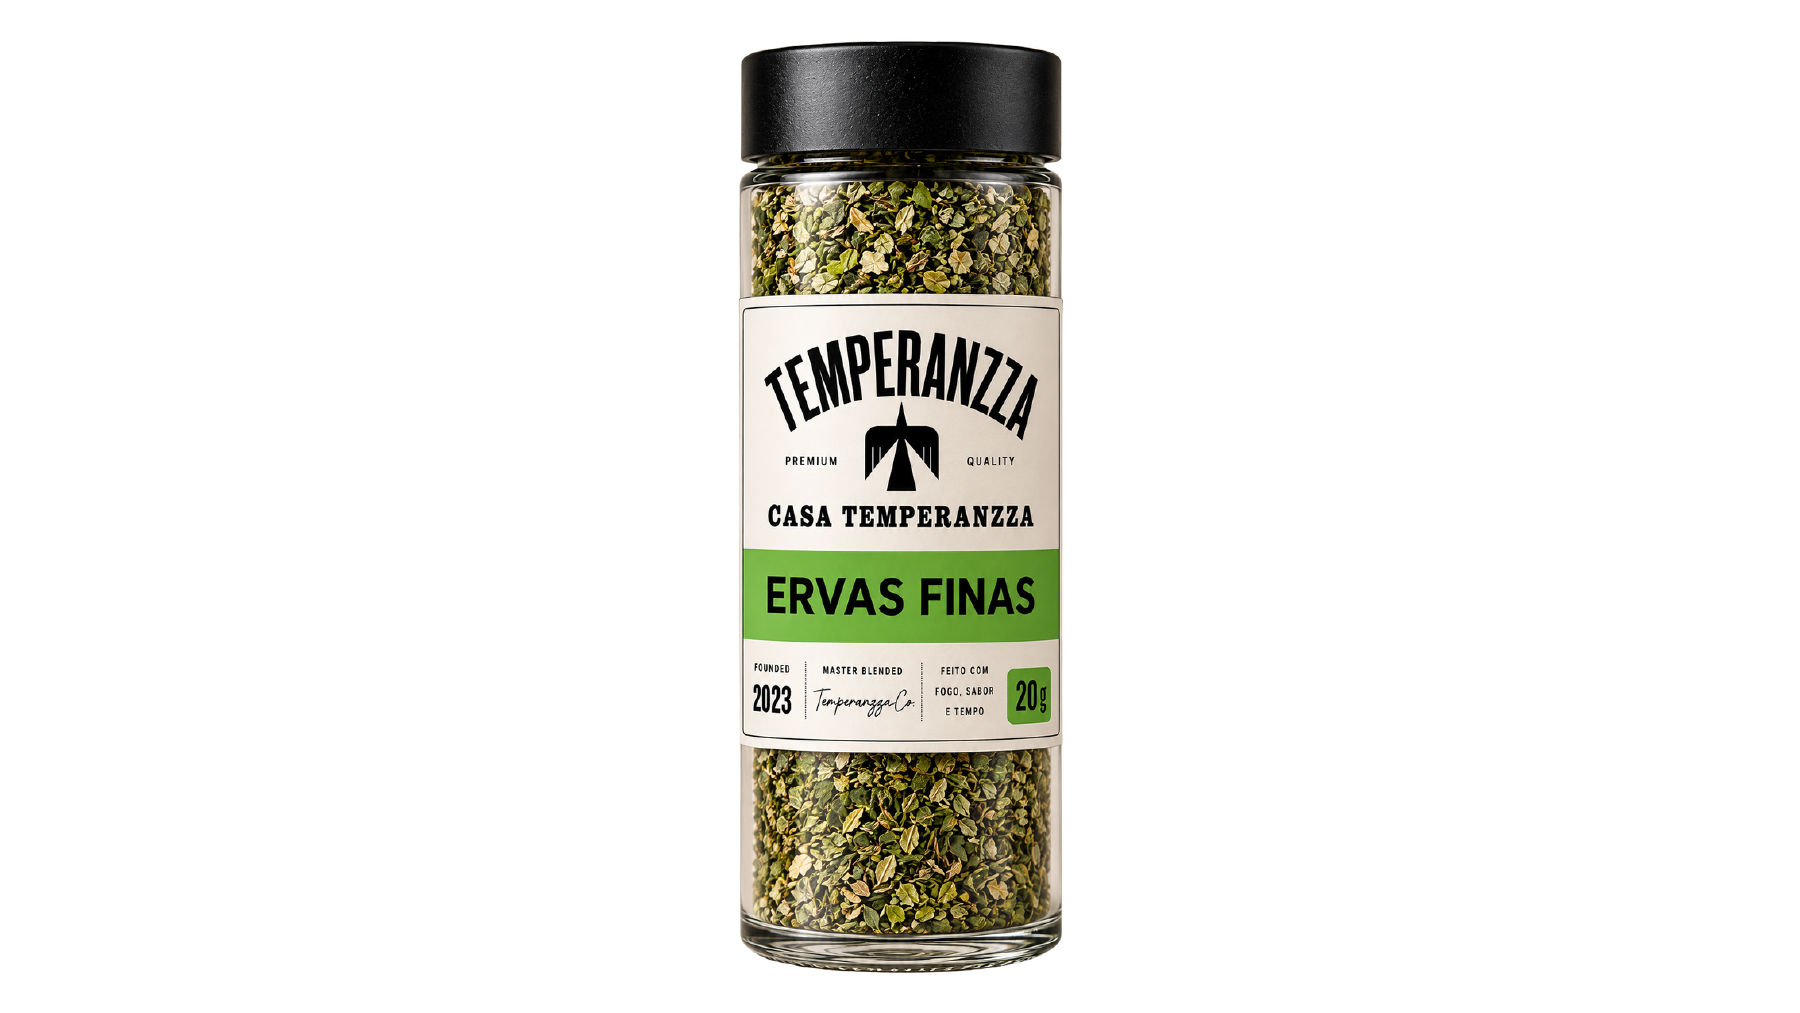
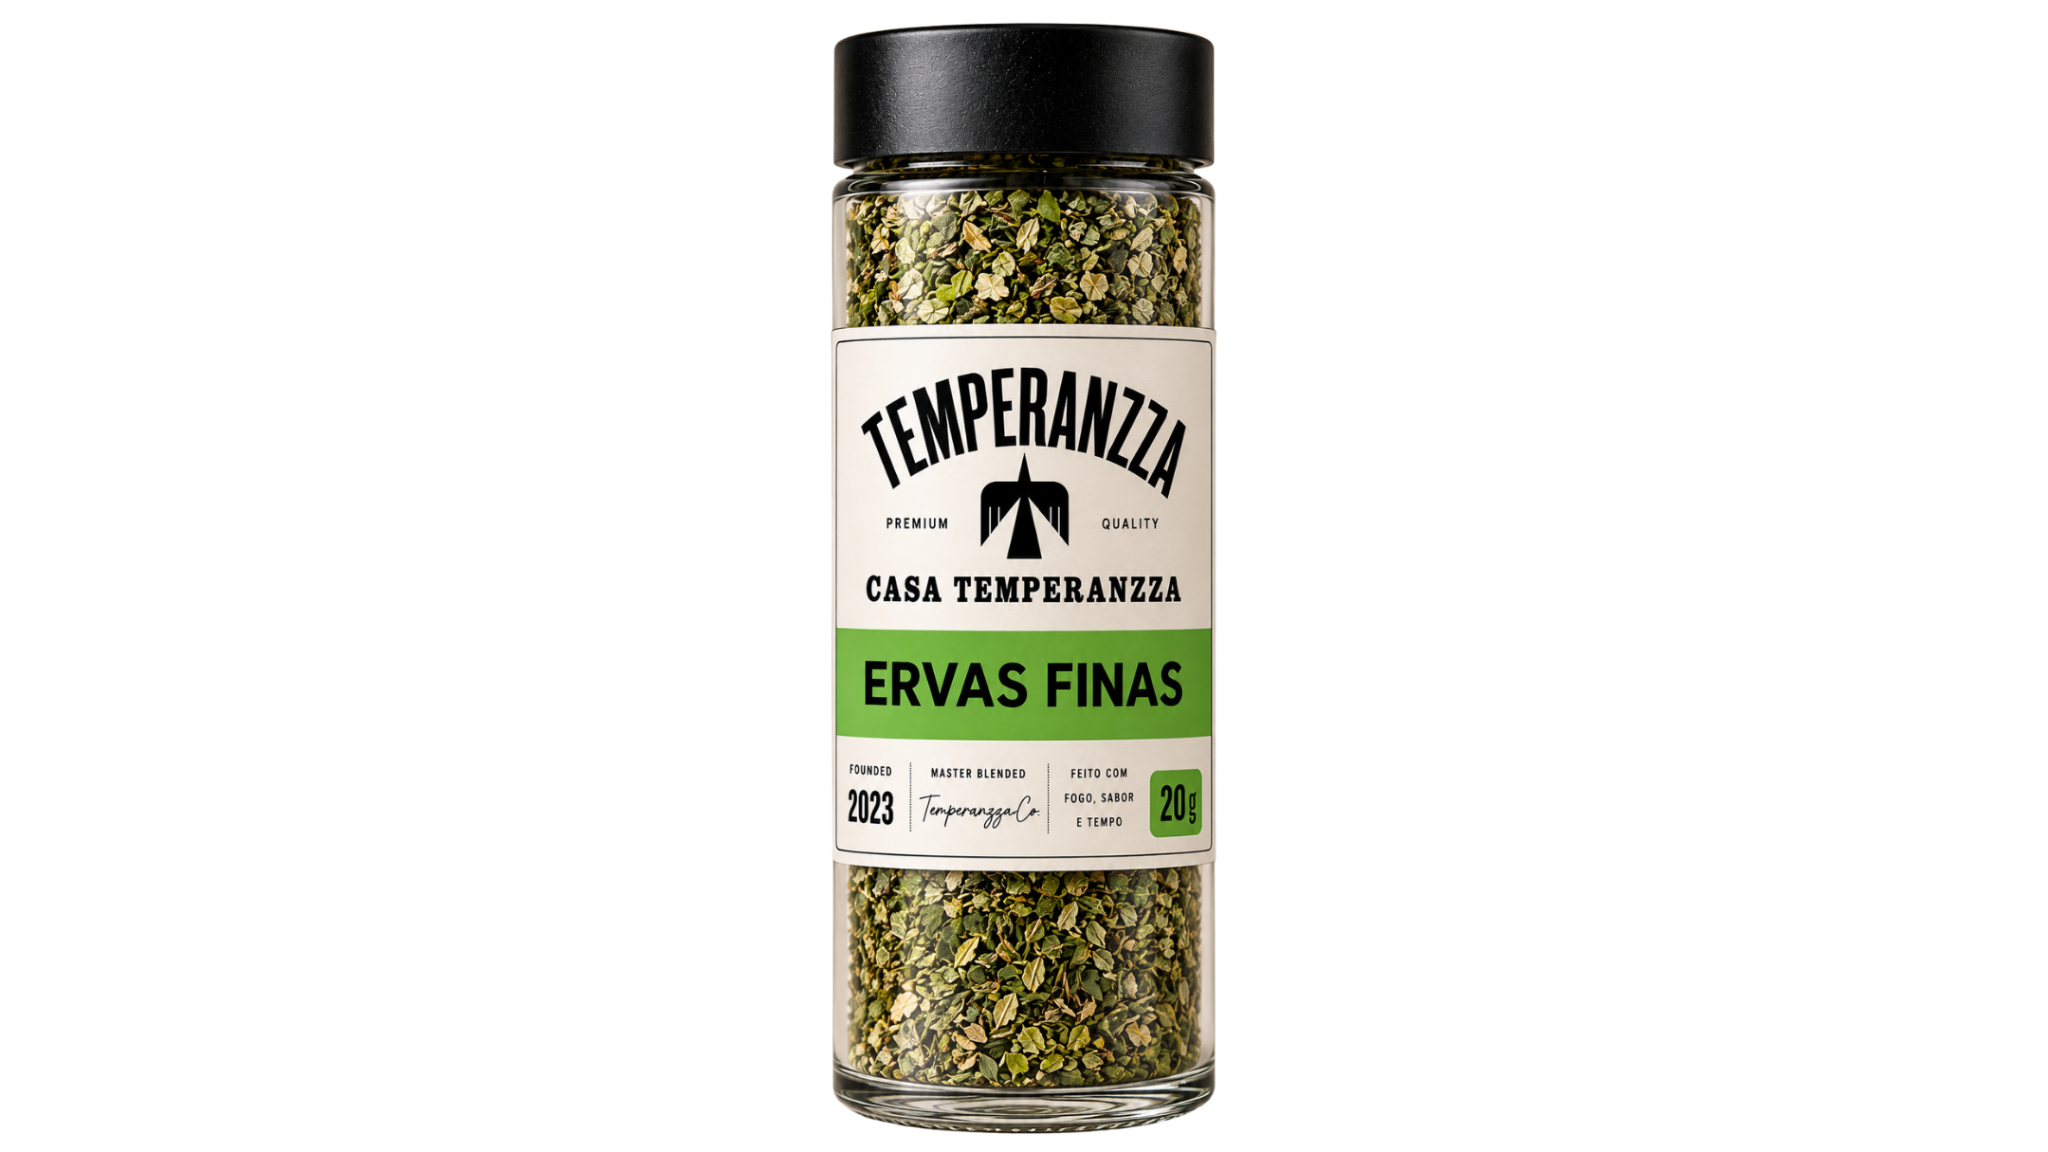
feat: lock official transparent rebrand pot masters

Changed region(s): [[0.4044, 0.0, 0.5911, 1.0]]

diff --git a/src/lib/productImages.ts b/src/lib/productImages.ts
@@ -16,6 +16,7 @@ import rebrandCurcuma from "@/assets/rebrand-products/curcuma.png";
 import rebrandEdu from "@/assets/rebrand-products/tempero-do-edu.png";
 import rebrandErvasFinas from "@/assets/rebrand-products/ervas-finas.png";
 import rebrandLemonPepper from "@/assets/rebrand-products/lemon-pepper.png";
+import rebrandTemperoMineiro from "@/assets/rebrand-products/tempero-mineiro.png";
 import rebrandPapricaDefumada from "@/assets/rebrand-products/paprica-defumada.png";
 import rebrandPapricaDoce from "@/assets/rebrand-products/paprica-doce.png";
 import rebrandPapricaPicante from "@/assets/rebrand-products/paprica-picante.png";
@@ -33,6 +34,7 @@ const REBRAND_IMAGE_MAP: Record<string, string> = {
   curcuma: rebrandCurcuma,
   "ervas-finas": rebrandErvasFinas,
   "lemon-pepper": rebrandLemonPepper,
+  "tempero-mineiro": rebrandTemperoMineiro,
   "paprica-defumada": rebrandPapricaDefumada,
   "paprica-doce": rebrandPapricaDoce,
   "paprica-picante": rebrandPapricaPicante,

diff --git a/src/lib/rebrandCatalog.ts b/src/lib/rebrandCatalog.ts
@@ -22,6 +22,7 @@ export const REBRAND_CONFIRMED_SOURCE_HANDLES = [
   "ana-maria",
   "temperaflix-ervas-finas",
   "temperaflix-tradicional",
+  "tempero-mineiro",
   "temperaflix-bacon",
   "paprica-picante",
   "salsa-cebola-e-alho",

diff --git a/docs/PRODUCT-ASSET-LOCK.md b/docs/PRODUCT-ASSET-LOCK.md
@@ -1,70 +1,41 @@
 # PRODUCT ASSET LOCK — Casa Temperanzza
 
-Status: **ATIVO — FONTE CANÔNICA CONFIRMADA**
+Status: **ATIVO — LOTE OFICIAL CONFIRMADO EM 15/09/2026**
 
-Este registro protege a experiência rebrand contra regressão para mockups históricos.
+Este registro protege a experiência Rebrand contra regressão para potes históricos, imagens Shopify ou arquivos provisórios.
 
-## Regra de uso
+## Regras imutáveis
 
-1. Shopify continua sendo a fonte comercial de produto, preço, disponibilidade e variante.
-2. A camada editorial do rebrand só pode usar um pote classificado como `REBRAND_CONFIRMED`.
-3. Arquivos históricos em `src/assets` não se tornam rebrand apenas por terem o mesmo handle.
-4. Não reconstruir, redesenhar, completar ou reinterpretar pote/rótulo com IA.
-5. Quando um ativo confirmado ainda não estiver incorporado ao repositório, não exibir o SKU em superfície editorial e registrar `MISSING_REBRAND_ASSET`; nunca usar imagem Shopify ou mockup histórico como fallback visual.
-6. O original fornecido deve ser preservado. Recorte/transparência/otimização, quando necessários, são derivados técnicos e não podem alterar a arte.
-7. A participação nas superfícies editoriais do rebrand é governada exclusivamente pela allowlist positiva de fontes confirmadas. SKUs ausentes dessa lista não podem ser publicados, mesmo que permaneçam no histórico comercial do Shopify.
+1. A camada pública só pode renderizar os PNGs oficiais listados neste documento.
+2. Não reconstruir, redesenhar, completar, recortar ou reinterpretar pote/rótulo com IA.
+3. Os arquivos oficiais devem permanecer sem recompressão e com o canal alpha original.
+4. Shopify permanece como fonte de preço, disponibilidade e variante, nunca como fallback visual.
+5. Cebola em Pó e Du Chefe com Páprica não integram o catálogo oficial desta implementação.
+6. Salsa, Cebola e Alho é um SKU único e permanece válido.
+7. Qualquer SKU sem master oficial deve retornar `missing`.
 
-## Fonte canônica e lote operacional
+## Masters oficiais incorporados
 
-O PDF original **Nova logotipia Temperanzza (1).pdf**, com 15 páginas, permanece como fonte visual canônica deste Asset Lock. Em 15/09/2026, o proprietário forneceu o lote operacional `01`–`15` em PNG, acompanhado de `MANIFESTO_POTES_REBRAND.csv`, declarando a página-fonte de cada arquivo. Os PNGs recebidos têm 1800 × 1013 px, RGB, fundo branco e devem ser incorporados sem recompressão, recorte, reconstrução ou redesenho da embalagem.
+Todos os arquivos abaixo foram recebidos diretamente do proprietário em PNG 2048 × 1152, RGBA, com transparência.
 
-| Página | SKU | Handle canônico | Status |
-|---|---|---|---|
-| 01 | Temperaflix Tradicional, 60 g | `temperaflix-tradicional` | REBRAND_CONFIRMED |
-| 02 | Temperaflix Ervas Finas, 75 g | `temperaflix-ervas-finas` | REBRAND_CONFIRMED |
-| 03 | Temperaflix Sabor Bacon, 65 g | `temperaflix-bacon` | REBRAND_CONFIRMED |
-| 04 | Du Chefe com Páprica, 45 g | `du-chefe-com-paprica` | RECEIVED_ARCHIVE_ONLY — NOT PUBLIC |
-| 05 | Edu Guedes, 45 g | `tempero-do-edu` | REBRAND_CONFIRMED |
-| 06 | Ana Maria, 55 g | `ana-maria` | REBRAND_CONFIRMED |
-| 07 | Chimi Churri Picante, 39 g | `chimichurri-picante` | REBRAND_CONFIRMED |
-| 08 | Chimi Churri sem Pimenta, 40 g | `chimichurri-sem-pimenta` | REBRAND_CONFIRMED |
-| 09 | Cúrcuma — Açafrão-da-Terra, 40 g | `curcuma` | REBRAND_CONFIRMED |
-| 10 | Ervas Finas, 20 g | `ervas-finas` | REBRAND_CONFIRMED |
-| 11 | Lemon Pepper, 50 g | `lemon-pepper` | REBRAND_CONFIRMED |
-| 12 | Páprica Defumada, 60 g | `paprica-defumada` | REBRAND_CONFIRMED |
-| 13 | Páprica Doce, 60 g | `paprica-doce` | REBRAND_CONFIRMED |
-| 14 | Páprica Picante, 45 g | `paprica-picante` | REBRAND_CONFIRMED |
-| 15 | Salsa, Cebola e Alho, 30 g | `salsa-cebola-e-alho` | REBRAND_CONFIRMED |
-
-Aliases técnicos continuam resolvendo para o handle canônico; não criam SKUs adicionais. Em especial, `tempero-chefe` resolve para `du-chefe-com-paprica`, `edu-guedes` resolve para `tempero-do-edu`, e não existe um SKU genérico `bacon` separado de `temperaflix-bacon`.
-
-## Locks de binário incorporado
-
-Os 15 PNGs recebidos em 15/09/2026 foram incorporados integralmente sob nomes canônicos estáveis:
-
-| Handle | Arquivo incorporado |
-|---|---|
-| `temperaflix-tradicional` | `src/assets/rebrand-products/temperaflix-tradicional.png` |
-| `temperaflix-ervas-finas` | `src/assets/rebrand-products/temperaflix-ervas-finas.png` |
-| `temperaflix-bacon` | `src/assets/rebrand-products/temperaflix-bacon.png` |
-| `du-chefe-com-paprica` | `src/assets/rebrand-products/du-chefe-com-paprica.png` |
-| `tempero-do-edu` | `src/assets/rebrand-products/tempero-do-edu.png` |
-| `ana-maria` | `src/assets/rebrand-products/ana-maria.png` |
-| `chimichurri-picante` | `src/assets/rebrand-products/chimichurri-picante.png` |
-| `chimichurri-sem-pimenta` | `src/assets/rebrand-products/chimichurri-sem-pimenta.png` |
-| `curcuma` | `src/assets/rebrand-products/curcuma.png` |
-| `ervas-finas` | `src/assets/rebrand-products/ervas-finas.png` |
-| `lemon-pepper` | `src/assets/rebrand-products/lemon-pepper.png` |
-| `paprica-defumada` | `src/assets/rebrand-products/paprica-defumada.png` |
-| `paprica-doce` | `src/assets/rebrand-products/paprica-doce.png` |
-| `paprica-picante` | `src/assets/rebrand-products/paprica-picante.png` |
-| `salsa-cebola-e-alho` | `src/assets/rebrand-products/salsa-cebola-e-alho.png` |
-
-## Pendências explícitas
-
-- `du-chefe-com-paprica` → `EXCLUDED_FROM_REBRAND_CATALOG`. O binário recebido é preservado apenas para rastreabilidade do lote e não pode ser importado, renderizado ou publicado.
-- `tempero-mineiro` → `MISSING_REBRAND_ASSET`. O SKU permanece na fonte comercial, mas não integra a allowlist pública nem pode receber imagem Shopify/legada enquanto o master Rebrand não for incorporado.
+| Nº | SKU | Handle | Master canônico | Status |
+|---:|---|---|---|---|
+| 01 | Ana Maria — 55 g | `ana-maria` | `ana-maria.png` | REBRAND_CONFIRMED |
+| 02 | Chimi Churri Picante — 39 g | `chimichurri-picante` | `chimichurri-picante.png` | REBRAND_CONFIRMED |
+| 03 | Chimi Churri sem Pimenta — 40 g | `chimichurri-sem-pimenta` | `chimichurri-sem-pimenta.png` | REBRAND_CONFIRMED |
+| 04 | Cúrcuma / Açafrão-da-Terra — 40 g | `curcuma` | `curcuma.png` | REBRAND_CONFIRMED |
+| 05 | Edu Guedes — 45 g | `tempero-do-edu` | `tempero-do-edu.png` | REBRAND_CONFIRMED |
+| 06 | Ervas Finas — 20 g | `ervas-finas` | `ervas-finas.png` | REBRAND_CONFIRMED |
+| 07 | Lemon Pepper — 50 g | `lemon-pepper` | `lemon-pepper.png` | REBRAND_CONFIRMED |
+| 08 | Páprica Defumada — 60 g | `paprica-defumada` | `paprica-defumada.png` | REBRAND_CONFIRMED |
+| 09 | Páprica Doce — 60 g | `paprica-doce` | `paprica-doce.png` | REBRAND_CONFIRMED |
+| 10 | Páprica Picante — 45 g | `paprica-picante` | `paprica-picante.png` | REBRAND_CONFIRMED |
+| 11 | Salsa, Cebola e Alho — 30 g | `salsa-cebola-e-alho` | `salsa-cebola-e-alho.png` | REBRAND_CONFIRMED |
+| 12 | Temperaflix Ervas Finas — 75 g | `temperaflix-ervas-finas` | `temperaflix-ervas-finas.png` | REBRAND_CONFIRMED |
+| 13 | Temperaflix Sabor Bacon — 65 g | `temperaflix-bacon` | `temperaflix-bacon.png` | REBRAND_CONFIRMED |
+| 14 | Temperaflix Tradicional — 60 g | `temperaflix-tradicional` | `temperaflix-tradicional.png` | REBRAND_CONFIRMED |
+| 15 | Tempero Mineiro — 45 g | `tempero-mineiro` | `tempero-mineiro.png` | REBRAND_CONFIRMED |
 
 ## Gate técnico
 
-O arquivo `src/lib/productImages.ts` só pode trocar o asset histórico de um handle depois que o binário da fonte canônica estiver incorporado e verificado. A resolução deve ser por handle canônico exato, nunca por substring ou inferência de nome. Assets históricos podem permanecer no repositório durante a auditoria, mas nunca podem ser importados, renderizados ou usados como fallback público.
+A correspondência é feita por handle canônico exato em `src/lib/productImages.ts`. Nenhum componente público pode usar substring, inferência de nome, imagem legada ou fallback da Shopify.

diff --git a/docs/MANIFESTO_POTES_REBRAND_OFICIAL.md b/docs/MANIFESTO_POTES_REBRAND_OFICIAL.md
@@ -1,0 +1,21 @@
+# Manifesto — Potes oficiais do Rebrand
+
+Recebido em 15/09/2026. Arquivos preservados integralmente, sem edição.
+
+| Upload | SKU | Arquivo canônico | SHA-256 do original |
+|---|---|---|---|
[15 lines of base64/hex data omitted]
